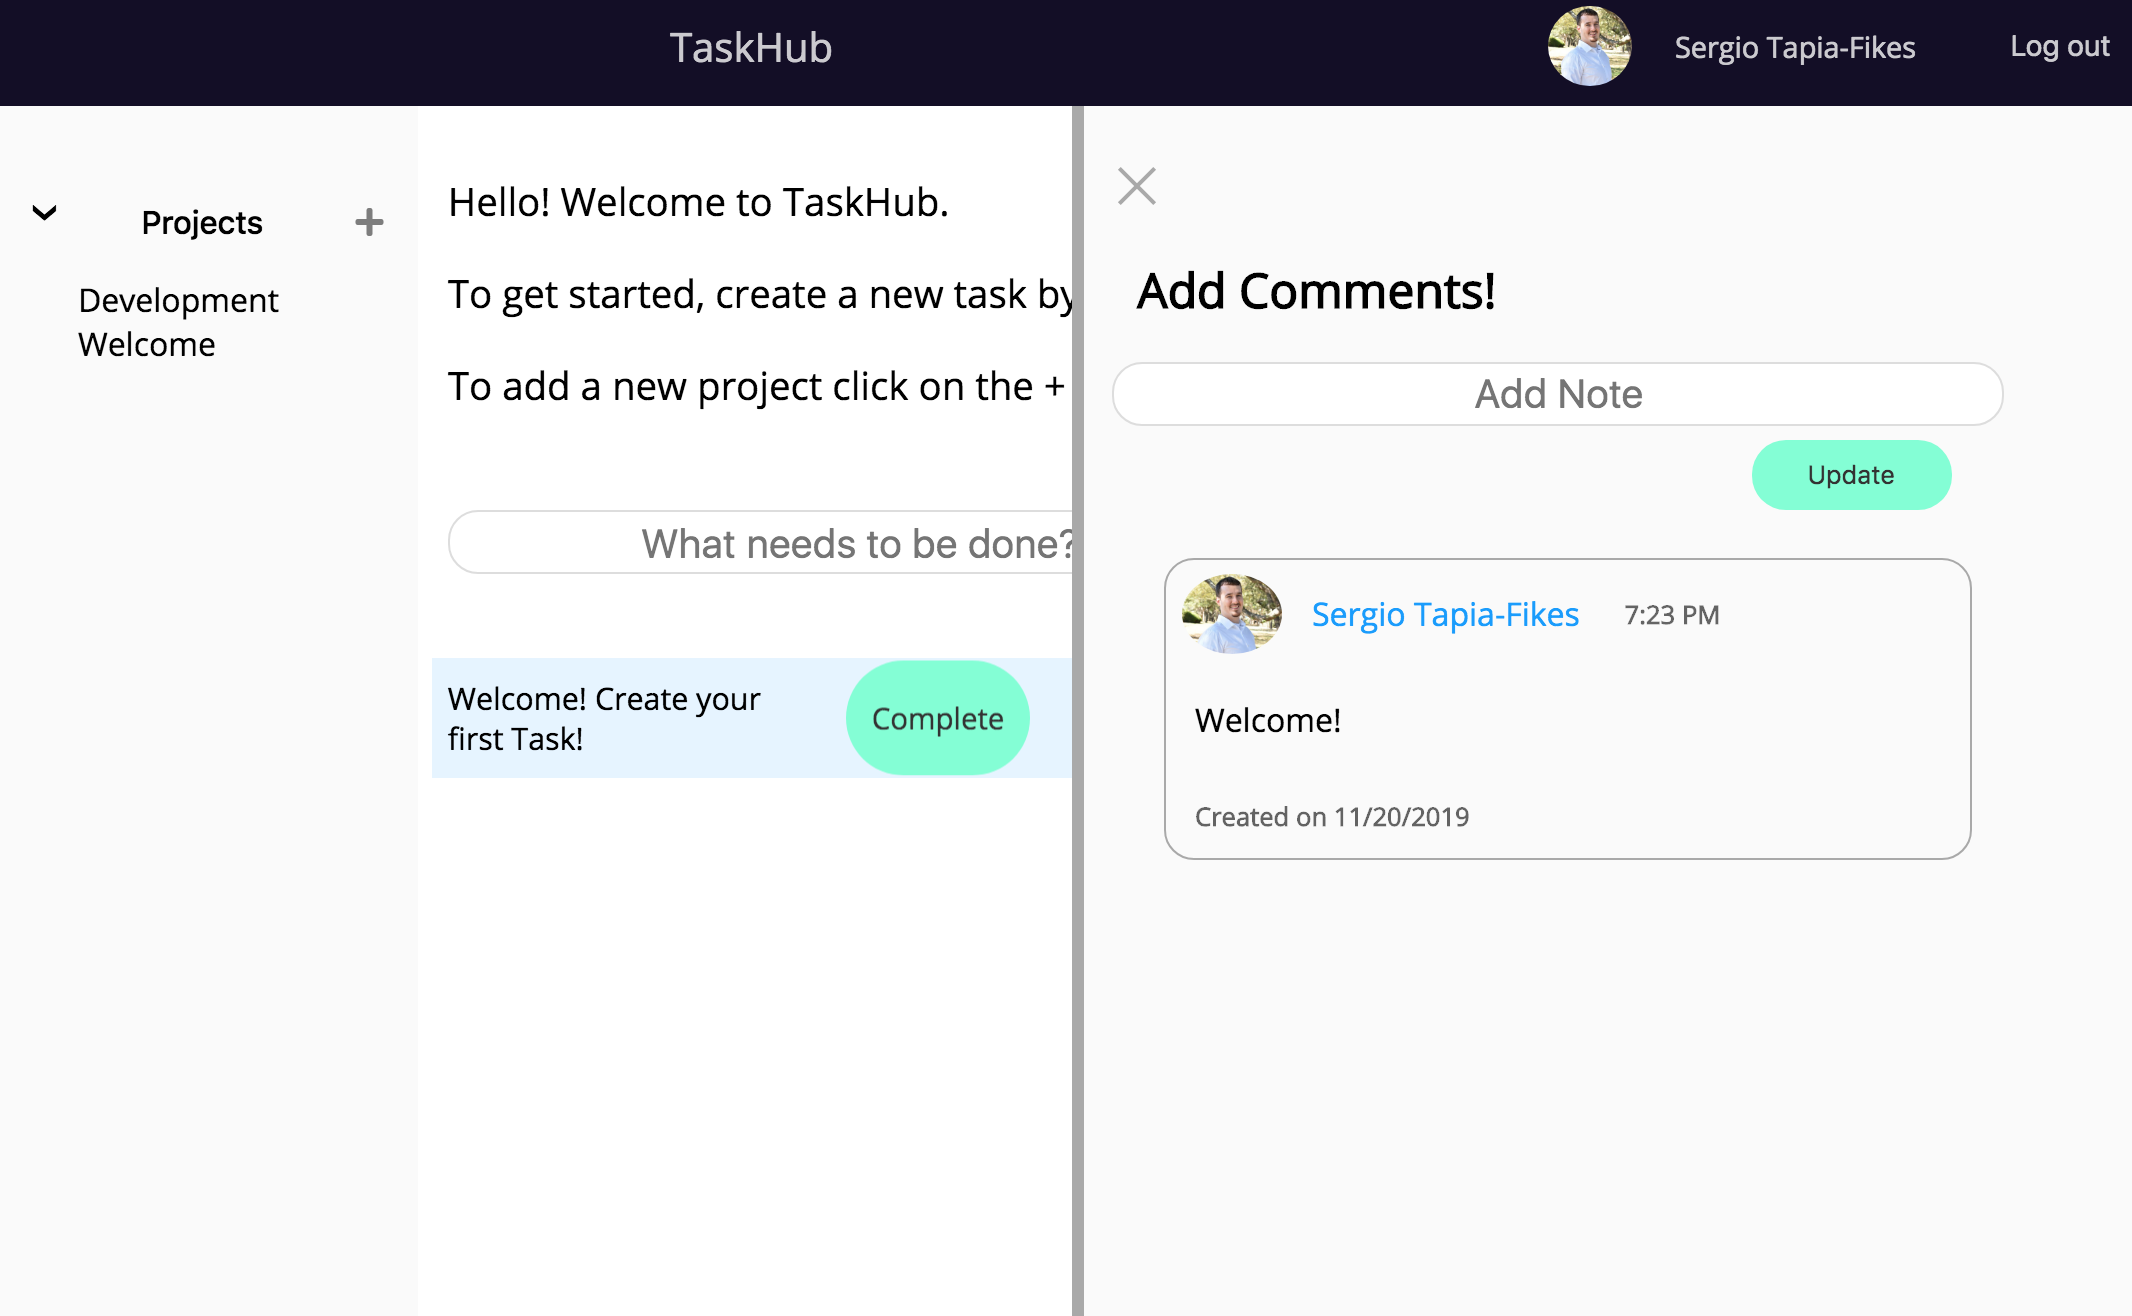
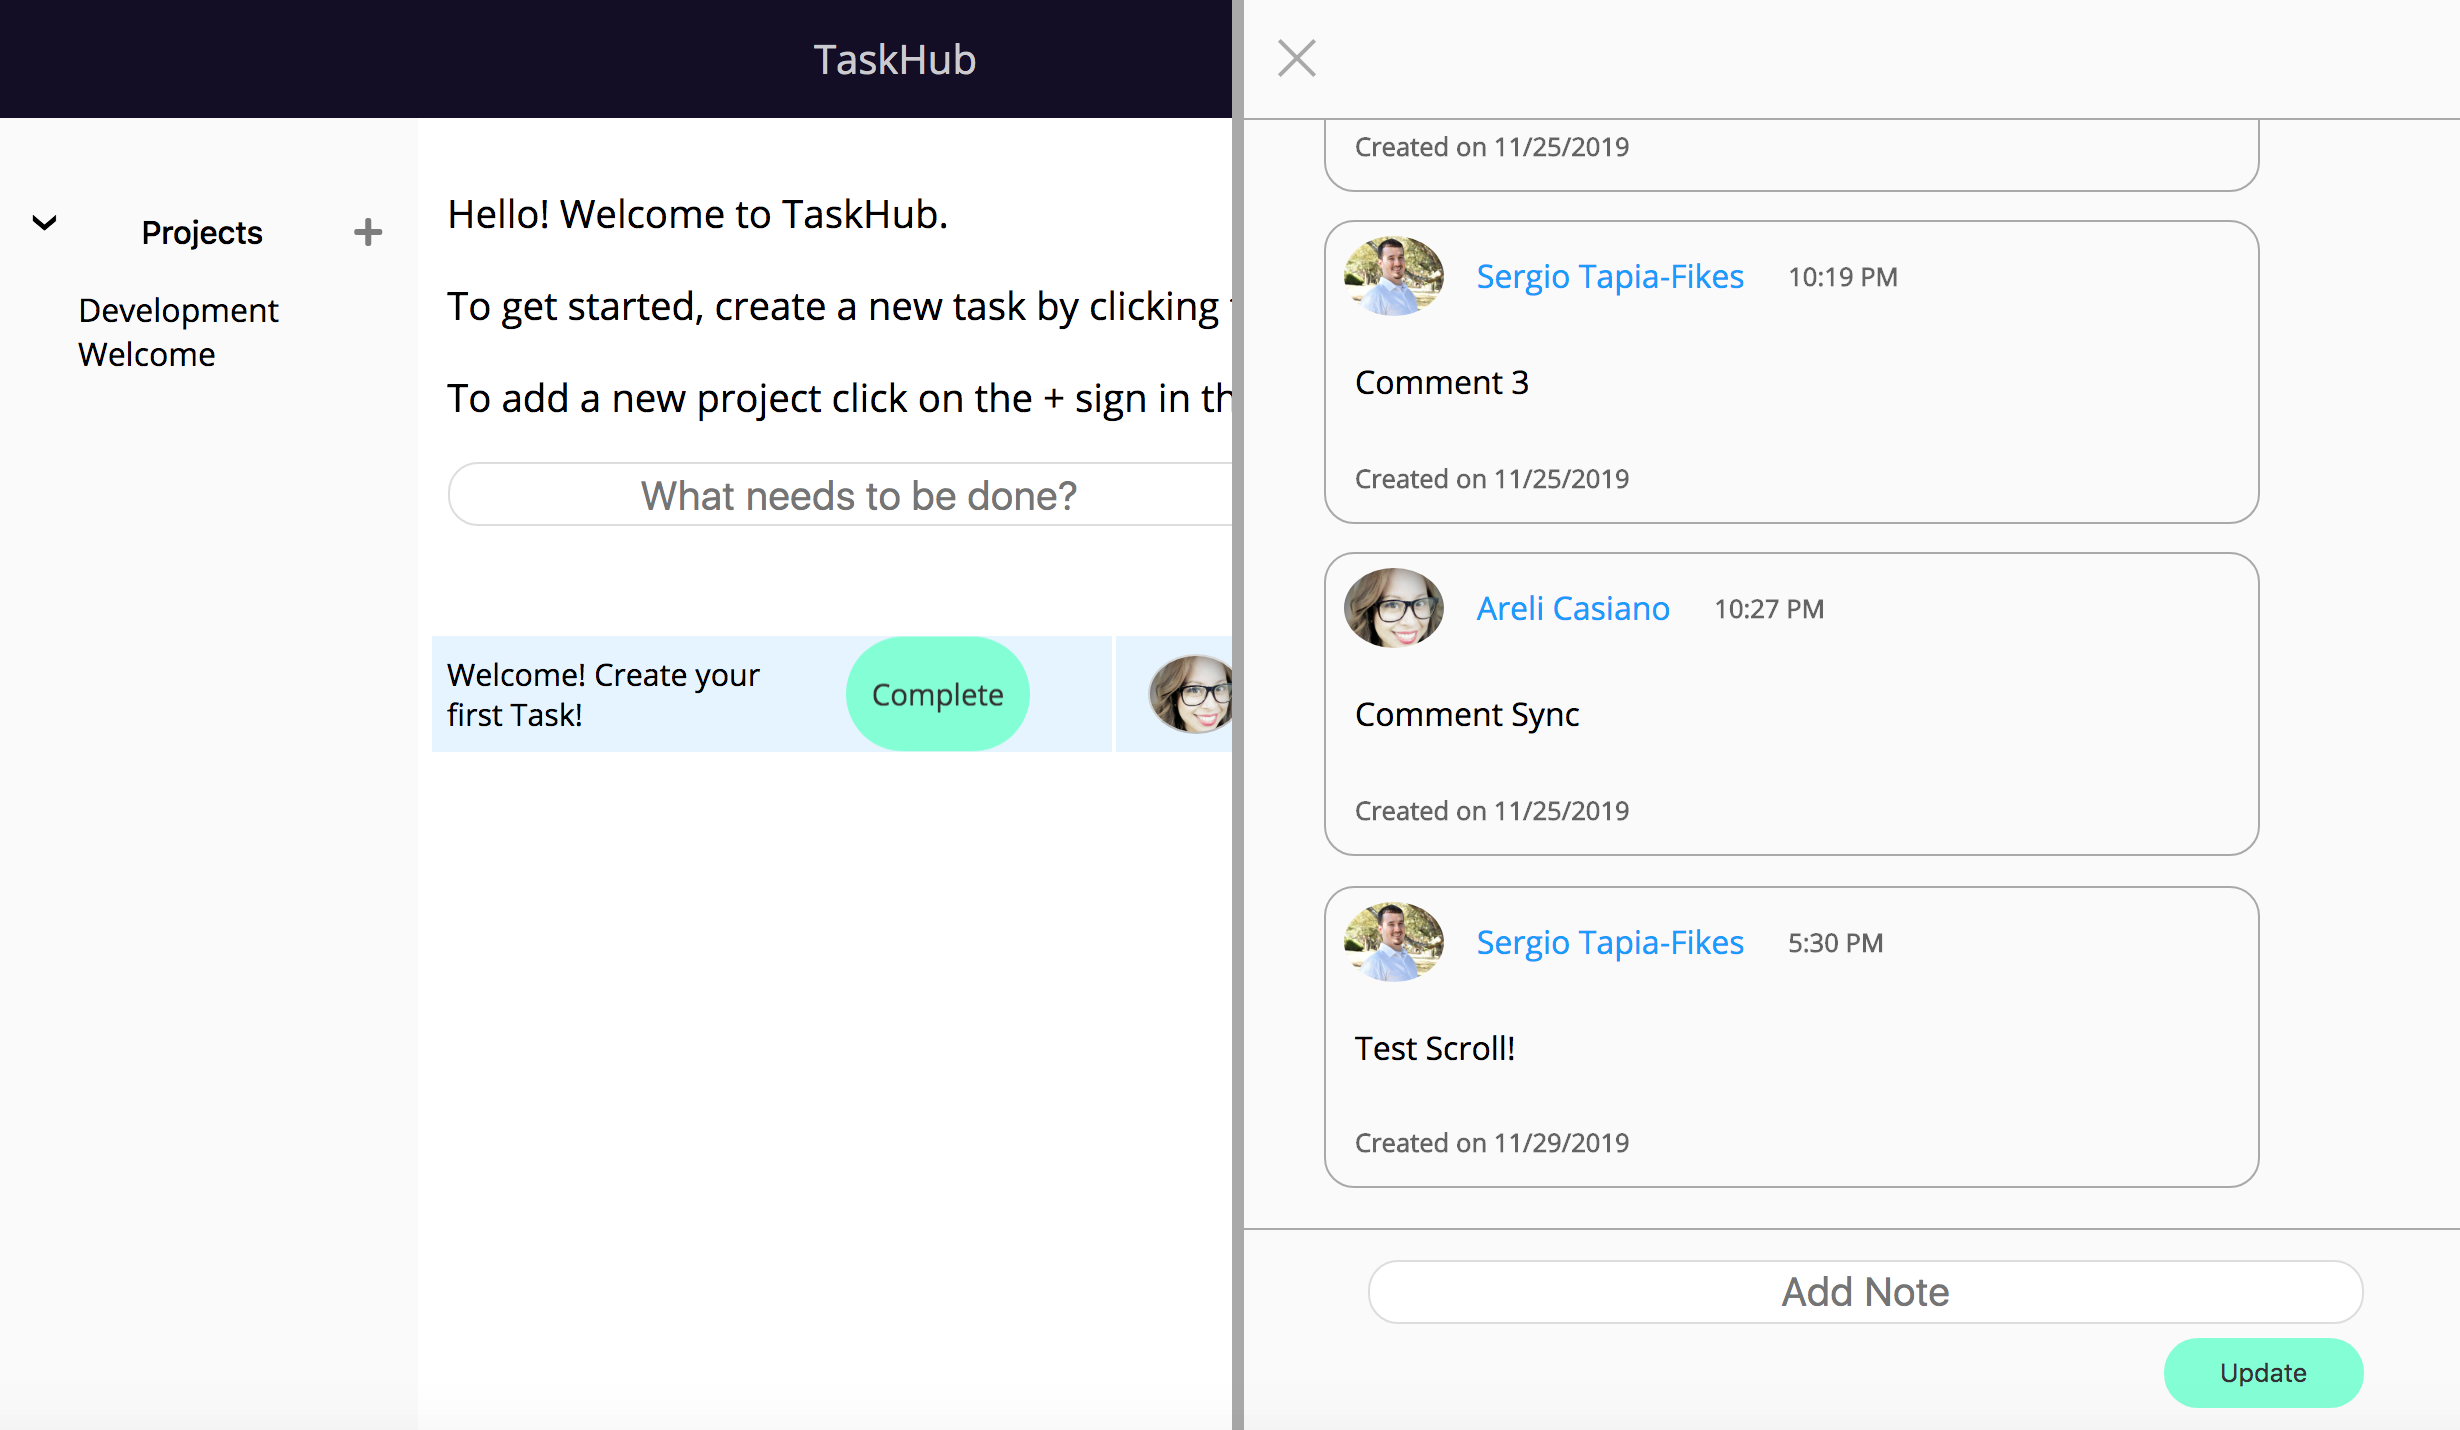
edited UI for comments sidePanel and added handleScroll method

diff --git a/src/sidePanelComments.js b/src/sidePanelComments.js
@@ -1,4 +1,4 @@
-import React, {useState, useEffect} from 'react'; 
+import React, {useState, useEffect, useRef} from 'react'; 
 import './sidePanelComments.css'; 
 import { useParams } from 'react-router-dom'; 
 import { db } from './App'; 
@@ -6,7 +6,6 @@ import { SidePanelForm} from './sidePanelForm';
 import formatDate from 'date-fns/format'; 
 
 export function SidePanelComments(props) {
-    const [headerMessage] =useState('Add Comments!'); 
     const [taskId, setTaskId] = useState(''); 
     const [comments, setComments] = useState([]); 
     const { projectId } = useParams(); 
@@ -14,9 +13,12 @@ export function SidePanelComments(props) {
     const [assignedUser, setAssignedUser] = useState(''); 
     const [author, setAuthor] = useState(''); 
     const [commentsComplete, setComplete] = useState(false); 
+    const scrollerRef = useRef(); 
+    const shouldScrollRef = useRef(true); 
 
     useEffect(()=> { 
         //console.log('profileUser', props.user.uid)   
+        shouldScrollRef.current= true; 
         let result = {}; 
         let taskData = {}; 
         async function setArguments() {
@@ -60,9 +62,13 @@ export function SidePanelComments(props) {
                     }); 
                 }); 
                 setComments(comments);
+                if(shouldScrollRef.current) {
+                    const node = scrollerRef.current;
+                    node.scrollTop = node.scrollHeight; 
+                }
                 //console.log('setComments', comments); 
                 setComplete(true);  
-                if (commentsComplete && assignedUser!== props.user.uid){
+                if (commentsComplete && assignedUser && assignedUser!== props.user.uid){
                     comments.forEach(comment => {
                         db.collection(`users/${assignedUser}/taskProjects`)
                         .doc(`${projectId}`) 
@@ -87,7 +93,7 @@ export function SidePanelComments(props) {
                 }
             }); 
         }
-     
+       
         setArguments(); 
         setComments([]); 
 
@@ -104,52 +110,53 @@ export function SidePanelComments(props) {
         
     },[props.taskId, projectId, props.user.uid, taskId, assignedUser, commentsComplete, author])
 
+    const handleScroll = () => {
+        const node = scrollerRef.current; 
+        const { scrollTop, clientHeight, scrollHeight} = node; 
+        const isAtBottom = scrollTop + clientHeight === scrollHeight; 
+        shouldScrollRef.current = isAtBottom; 
+    }
 
     const submitComment = async (comment) => {
         if (comment === '') {
             return; 
         }
         if(taskId !== '' && assignedUser) {
-        await db.collection(`users/${props.user.uid}/taskProjects`)
-        .doc(`${projectId}`) 
-        .collection('Tasks')
-        .doc(`${taskId}`)
-        .collection('Comments')
-        .add({
-            Comment: comment, 
-            createdAt: new Date(),
-            author: props.user.displayName, 
-            authorId: props.user.uid, 
-            authorPhoto: props.user.photoUrl
-        }); 
-         
-        //console.log('submit', comments);  
+            await db.collection(`users/${props.user.uid}/taskProjects`)
+            .doc(`${projectId}`) 
+            .collection('Tasks')
+            .doc(`${taskId}`)
+            .collection('Comments')
+            .add({
+                Comment: comment, 
+                createdAt: new Date(),
+                author: props.user.displayName, 
+                authorId: props.user.uid, 
+                authorPhoto: props.user.photoUrl
+            }); 
+            
+            //console.log('submit', comments);  
         } 
-
         setText('');  
-   
     }
 
     const handleChange = (e) => {
         setText(e.target.value); 
     }
+
     return (
         
-        <div className= {props.sidePanelClassName}>
+        <div className= {props.sidePanelClassName} ref={scrollerRef} onScroll={handleScroll}>
             <div className="sidePanelHeader">
                 <div id="closeX" onClick={props.toggleSidePanel}>
                     <div id="xTop"></div>
                     <div id="xBottom"></div>
                 </div>  
+            
             </div>
-            <h2 id="headerMessage">{headerMessage}</h2>
-            <SidePanelForm 
-            submitComment ={submitComment}
-            handleChange={handleChange}
-            inputValue = {text}
-            /> 
+            <div className="commentListWrapper">
             <ul>
-                {comments && comments.map((comment, index) => (
+                {comments.length ? comments.map((comment, index) => (
                     <div className="commentContainer" key={index}>
                         <div className="commentAuthor">
                             <div id="authorPhoto" style ={{backgroundImage: `url(${comment.data.authorPhoto})`}}></div>
@@ -160,8 +167,20 @@ export function SidePanelComments(props) {
                         <p id="dateLabel">Created on {new Date(comment.data.createdAt.seconds * 1000).toLocaleDateString()}</p>
                     </div>
                     
-                ))}
+                )) : (
+                    <div>
+                        <p> Add your first comment! </p>
+                    </div>
+                )}
             </ul>
+            </div>
+            <div className="commentBox">
+                <SidePanelForm 
+                submitComment ={submitComment}
+                handleChange={handleChange}
+                inputValue = {text}
+                /> 
+            </div>
         </div>
     )
 }

diff --git a/src/App.js b/src/App.js
@@ -46,38 +46,37 @@ class App extends React.Component {
   }
 
   render() {
-    return (
-      <div>
-        <AppHeader
-        hamburgerClassName ={this.state.hamburgerClassName}
-        openMenu={this.openMenu}
-        user = {this.props.user}
-        /> 
-        <div className ="wrapper">
-        <NavSideBar 
-        navClass ={this.state.navSideBarClassName} 
-        activeHamburger ={this.state.hamburgerClassName} 
-        user = {this.props.user} 
-        responsive ={this.state.responsive} 
-        clickHam ={this.openMenu} 
-        />
-        <div className='listContainer'> 
-        <WelcomeText homePage ={this.props.homePage}/>
-        <Form homePage ={this.props.homePage} user = {this.props.user}/> 
-        <TodoList 
-        user={this.props.user} 
-        toggleSidePanel={this.toggleSidePanel} 
-        sidePanelClassName={this.state.sidePanelCommentsIsOpen}
-        />  
-        </div>
-        <SidePanelComments
-        user = {this.props.user}
-        toggleSidePanel={this.toggleSidePanel} 
-        sidePanelClassName={this.state.sidePanelCommentsIsOpen}
-        taskId={this.state.taskId}
-        />
-        </div>
-        
+    return (  
+      <div className ="wrapper">
+      <AppHeader
+      hamburgerClassName ={this.state.hamburgerClassName}
+      openMenu={this.openMenu}
+      user = {this.props.user}
+      /> 
+      <div className ="horizontalWrapper">
+      <NavSideBar 
+      navClass ={this.state.navSideBarClassName} 
+      activeHamburger ={this.state.hamburgerClassName} 
+      user = {this.props.user} 
+      responsive ={this.state.responsive} 
+      clickHam ={this.openMenu} 
+      />
+      <div className='listContainer'> 
+      <WelcomeText homePage ={this.props.homePage}/>
+      <Form homePage ={this.props.homePage} user = {this.props.user}/> 
+      <TodoList 
+      user={this.props.user} 
+      toggleSidePanel={this.toggleSidePanel} 
+      sidePanelClassName={this.state.sidePanelCommentsIsOpen}
+      />  
+      </div>
+      </div>
+      <SidePanelComments
+      user = {this.props.user}
+      toggleSidePanel={this.toggleSidePanel} 
+      sidePanelClassName={this.state.sidePanelCommentsIsOpen}
+      taskId={this.state.taskId}
+      />
       </div>
     );
   }
@@ -106,13 +105,12 @@ class App extends React.Component {
       });
       if (this.state.width < 800){
         this.setState({
-          responsive: false,
+          responsive: false
         });
       }
       if (this.state.width >= 800){
         this.setState({
-          responsive: true,
-     
+          responsive: true
         });
       }
     }

diff --git a/src/sidePanelComments.css b/src/sidePanelComments.css
@@ -21,13 +21,23 @@
 
 .sidePanelHeader {
     display: flex; 
-    height: 55px; 
+    justify-content: center; 
+    flex-direction: column; 
+    z-index: 1;
+    position: fixed; 
+    width: inherit; 
+    height: 60px; 
+    border-bottom: 1px solid darkgray; 
+    background-color: rgb(250, 250, 250); 
 }
 
 #closeX {
     margin: 4vh 2vh; 
     width: 10%; 
     height: 100%; 
+}
+#closeX:hover {
+    cursor: pointer;
 }
 #closeX div {
     display: block; 
@@ -89,7 +99,20 @@ h2{
     background-size: cover;
     border-radius: 50%;
 }
-
+.commentBox {
+    position: fixed;
+    bottom: 0;
+    width: inherit;
+    background-color: rgb(250, 250, 250);
+    border-top: 1px solid darkgray; 
+    color: black;
+    display: flex; 
+    justify-content: center; 
+}
+.commentListWrapper {
+    margin-top: 80px; 
+    margin-bottom: 160px; 
+}
 @media screen and (max-width: 900px) {
     .sidePanel {
         right: -61vw; 

diff --git a/src/taskOwner.js b/src/taskOwner.js
@@ -48,12 +48,12 @@ export function TaskOwner(props) {
           
     }
     getTaskData(); 
-    
-    async function getUserData() { 
-       let query = await db.collection('users').doc(`${queryUser}`).get(); 
-       let userData = query.data(); 
+
+    async function getUserData() {
+        let query = await db.collection('users').doc(`${queryUser}`).get(); 
+        let userData = query.data(); 
        //console.log('async2', userData); 
-       setUserPhoto(userData.photoUrl); 
+        setUserPhoto(userData.photoUrl); 
     }
     
     return () => isSubscribed = false; 

diff --git a/src/App.css b/src/App.css
@@ -74,6 +74,8 @@ h3 {
 
 }
 .listContainer {
+  width: 100%; 
+  margin-top: 2vh; 
   overflow: auto; 
 
 }
@@ -98,6 +100,11 @@ h3 {
   display: flex; 
   position: relative;
   overflow: hidden; 
+  flex-direction: column; 
+}
+.horizontalWrapper{
+  display: flex; 
+  height: 100vh; 
 }
 #hamburger {
   display: none; 

diff --git a/src/sidePanelForm.css b/src/sidePanelForm.css
@@ -16,8 +16,6 @@
 
 #addCommentInput {
     outline:none; 
-    width: 100%; 
-    margin: 0 2vh; 
     border: 1px solid #ddd;
     height: 20px;
     border-radius: 15px;
@@ -38,6 +36,7 @@
 }
 #sidePanelForm {
     display: flex; 
+    margin: 2vh 0; 
     flex-direction: column; 
     width: 80%; 
 }

diff --git a/src/toDoList.css b/src/toDoList.css
@@ -1,5 +1,6 @@
 .unorderedListWrapper {
-    margin: 7vh 0; 
+    margin-top: 7vh; 
+    margin-bottom: 25vh;  
 }
 .itemContainer {
     background-color: #e5f4ff;

diff --git a/src/modalBox.css b/src/modalBox.css
@@ -73,7 +73,6 @@ footer > button {
 @media screen and (max-width: 450px) {
     #modal-form{
         width: 350px; 
-        left: 47%; 
     }
 
 }
